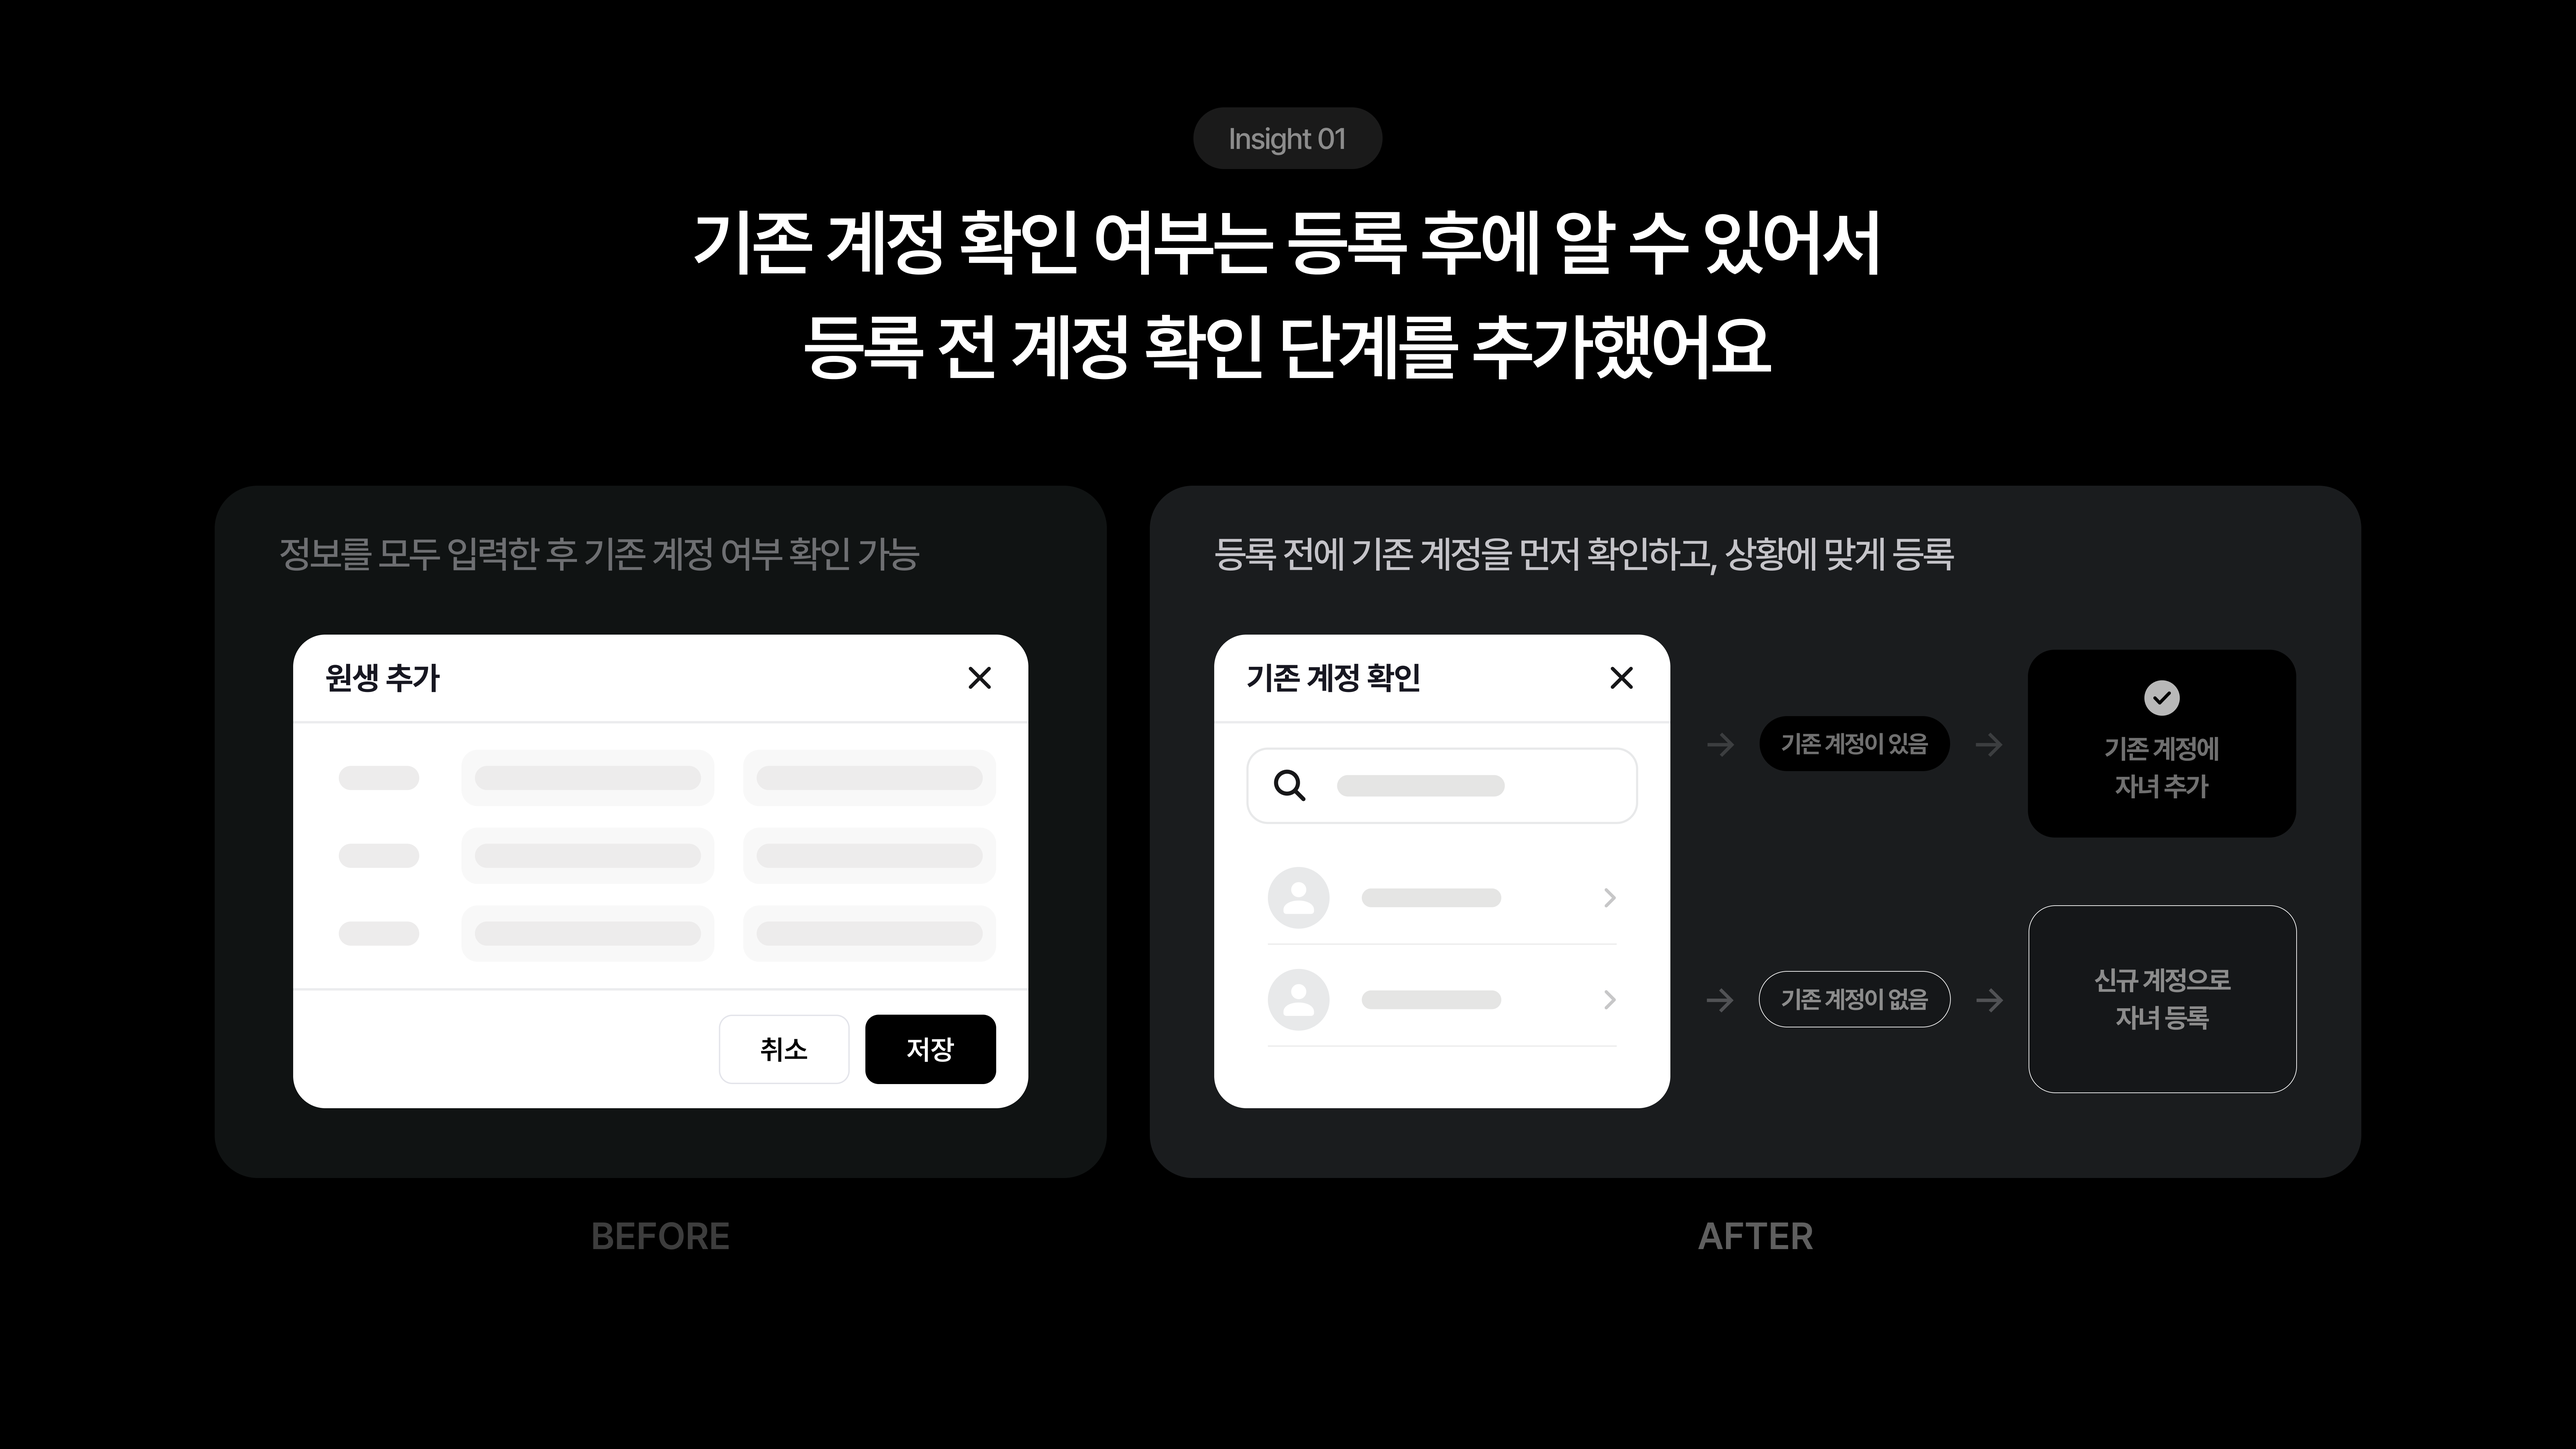
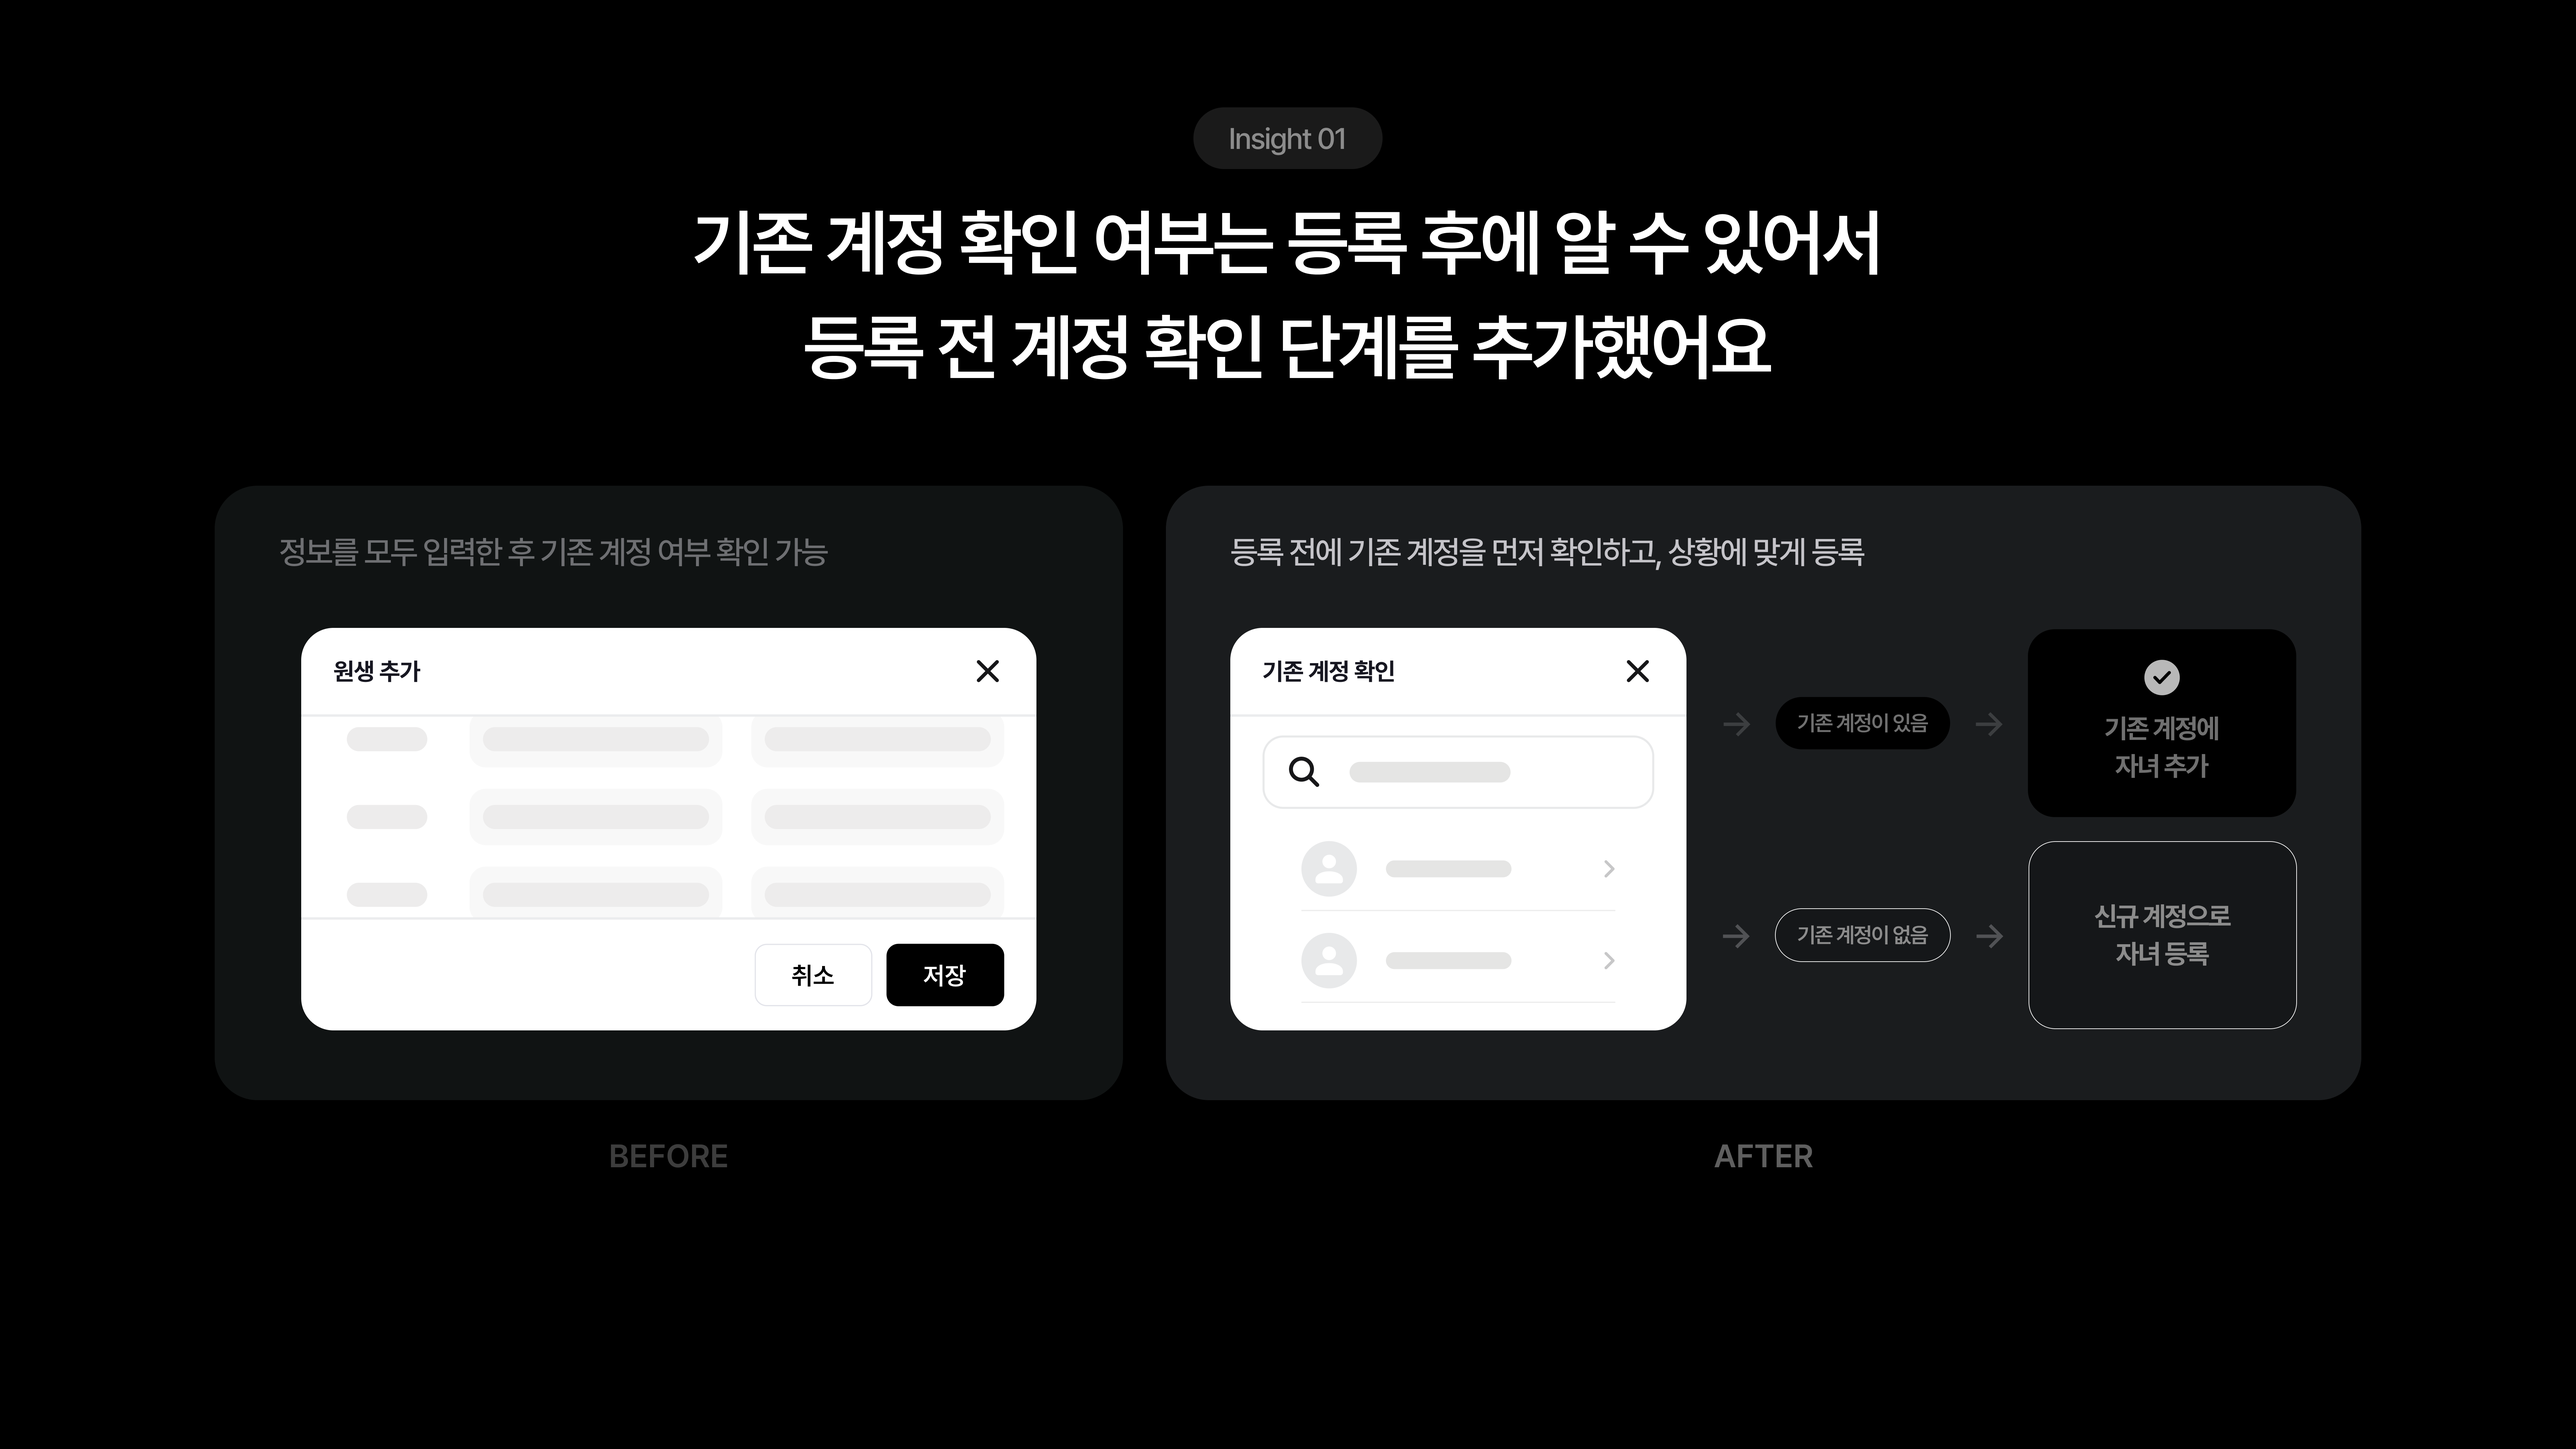
학원 ERP 08·09·10 슬라이드 재내보내기본 반영
- 08·09·10.png 갱신 (7680x4320, 총 24장 그대로)
- ASSET_VERSION 20261125a -> 20261125b

diff --git a/assets/js/main.js b/assets/js/main.js
@@ -70,7 +70,7 @@
      (CSS/JS 의 ?v= 와 같은 역할)
      경로 자체에는 붙이지 않는다 — 확장자 추출이나 존재 확인이 쿼리에
      오염되면 안 되므로, <img src> 에 실을 때만 versioned() 로 감싼다. */
-  var ASSET_VERSION = '20261125a';
+  var ASSET_VERSION = '20261125b';
   function slidePath(key, n, ext) { return 'assets/slides/' + key + '/' + pad(n) + '.' + ext; }
   function versioned(src) { return src + '?v=' + ASSET_VERSION; }
 

diff --git a/index.html b/index.html
@@ -169,6 +169,6 @@
   </div>
 </div>
 
-<script src="assets/js/main.js?v=20261125a"></script>
+<script src="assets/js/main.js?v=20261125b"></script>
 </body>
 </html>
